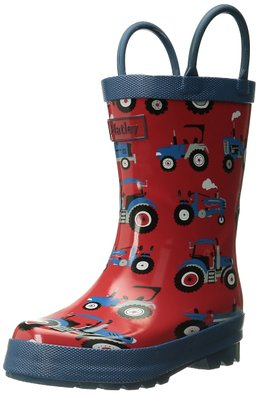
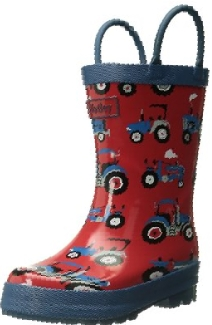
Changed sizes on images, and try to fix grid on front page

diff --git a/GodtSkoddProsjekt/Content/Style.css b/GodtSkoddProsjekt/Content/Style.css
@@ -32,8 +32,8 @@ footer
     background-color:#550452;
     position: relative;
 
-        padding: 0px;
-
+  padding: 0px;
+  height:100%;
 -webkit-border-radius: 10px;
 -moz-border-radius: 10px;
 border-radius: 10px;
@@ -59,6 +59,15 @@ left: 45%;
 .thumbnail{
     padding:0px;
     margin-top:50px;
+   
+  
+}
+
+
+.col-md-4 .productBox{
+    float:left;
+     margin-left: 2px;
+    margin-right:2px;
 }
 
 .productDescription
